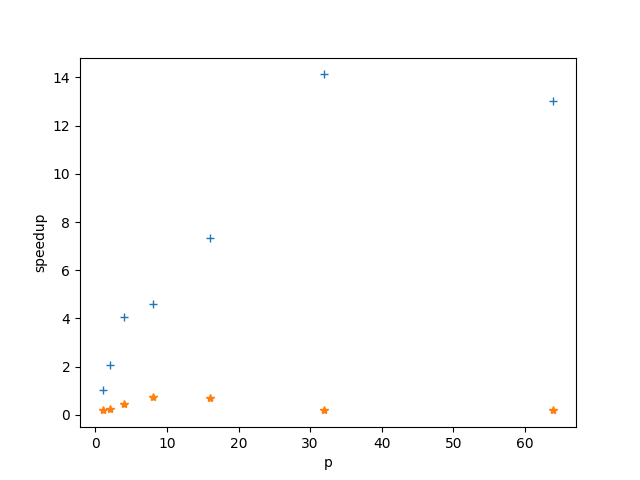
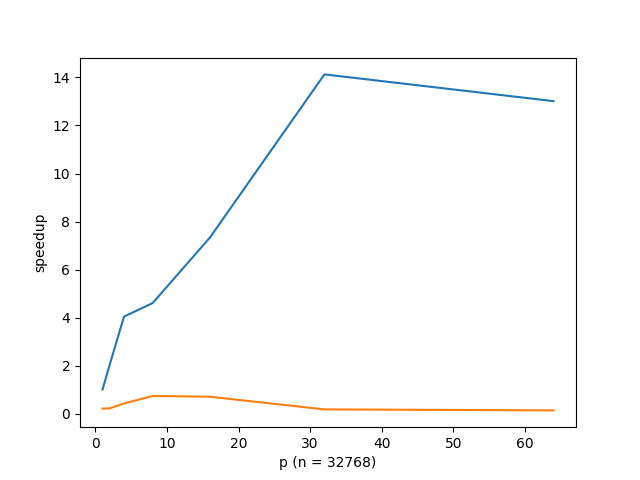
Improve prog3.5

diff --git a/plot_3.5.py b/plot_3.5.py
@@ -2,14 +2,26 @@ import numpy as np
 import matplotlib
 import matplotlib.pyplot as plt
 
-scatter_32768 = np.array([2.564583, 2.754509, 1.472941, 0.803871, 0.904196, 3.762699, 3.751775])
+scatter_32768 = np.array([2.564583, 2.754509, 1.472941, 0.803871, 0.904196, 3.762699, 4.861116])
 calc_32768 = np.array([0.705935, 0.349013, 0.176863, 0.155272, 0.097594, 0.050689, 0.055023])
 p = np.array([1, 2, 4, 8, 16, 32, 64])
 serial_32768 = 0.715940
-plt.plot(p, serial_32768 / calc_32768, "+")
-plt.plot(p, serial_32768 / (scatter_32768 + calc_32768), "*")
-plt.xlabel('p')
+plt.plot(p, serial_32768 / calc_32768)
+plt.plot(p, serial_32768 / (scatter_32768 + calc_32768))
+plt.xlabel('p (n = 32768)')
 plt.ylabel('speedup')
 plt.savefig("speedup_32768.png")
 plt.cla()
+
+scatter_64 = np.array([0.005673, 0.027237, 0.344984, 1.238004, 4.861116])
+calc_64 = np.array([0.000421, 0.000858, 0.003288, 0.008784, 0.029271])
+n = np.array([512, 2048, 8192, 16384, 32768])
+serial_64 = np.array([0.000166, 0.002786, 0.036893, 0.280732, 0.715940])
+plt.plot(n, serial_64 / calc_64)
+plt.plot(n, serial_64 / (scatter_64 + calc_64))
+plt.xlabel('n (p = 64)')
+plt.ylabel('speedup')
+plt.savefig("speedup_64.png")
+plt.cla()
+
 

diff --git a/prog3.5_6.md b/prog3.5_6.md
@@ -71,10 +71,16 @@ double time_after_calc = MPI_Wtime();
 | 8    | 0.001911/0.000159 | 0.008007/0.000921 | 0.102332/0.008524 | 0.259549/0.033296 | 0.803871/0.155272 |
 | 16   | 0.002041/0.000141 | 0.009946/0.000401 | 0.098155/0.007355 | 0.391268/0.024654 | 0.904196/0.097594 |
 | 32   | 0.002674/0.000499 | 0.019681/0.000507 | 0.271671/0.004532 | 1.006703/0.014355 | 3.762699/0.050689 |
-| 64   | 0.005673/0.000421 | 0.027237/0.000858 | 0.344984/0.003288 | 1.238004/0.008784 | 3.751775/0.055023 |
+| 64   | 0.005673/0.000421 | 0.027237/0.000858 | 0.344984/0.003288 | 1.238004/0.008784 | 4.861116/0.029271 |
 
 可以看到，时间基本都花在生成数据和通信上，而实际计算时间并不长。对于同样的数据大小，计算时间与并行度大体上呈负相关的趋势，在数据量大的时候较为明显，数据量小的时候并不显著。在并行度较大的时候，一台机器不足以提供足够的并行度，需要不同机器之间互相通信，这部分的开销并不小。
 
 ![](speedup_32768.png)
 
-对于 `n=32768` 的情况进行了绘制。横坐标表示 `p` ，纵坐标表示加速比，加号表示仅计算时间，星号表示数据分发时间与计算时间求和。可以看到，加速比随 p 在一定范围内基本是正比，但加速比会到达一个上限。由于数据量比较大，并且 p 大时涉及到集群内不同机器之间的通信，导致加速比反而在下降。这个问题在数据量更大的时候应该会有所改善，但是在实践过程中发现，如果将 n 提高到 65536，会导致 MPI_Scatterv 出错，因而无法继续测试。
+上面这附图是 `n=32768` 的情况。横坐标表示 `p` ，纵坐标表示加速比，蓝色表示仅计算时间，橙色表示数据分发时间与计算时间求和。可以看到，加速比随 p 在一定范围内基本是正比，但加速比会到达一个上限。由于数据量比较大，并且 p 大时涉及到集群内不同机器之间的通信，导致加速比反而在下降。这个问题在数据量更大的时候应该会有所改善，但是在实践过程中发现，如果将 n 提高到 65536，会导致 MPI_Scatterv 出错，因而无法继续测试。
+
+
+
+![](speedup_64.png)
+
+上面这附图是 `p=64` 的情况。横坐标表示 `n` ，纵坐标表示加速比，蓝色表示仅计算时间，橙色表示数据分发时间与计算时间求和。这个时候，由于数据分发时间都远大于计算时间，所以橙色的值都很小。而蓝色表示的加速比，在数据量大的时候，并行度提高对加速比的影响比较显著，并且也出现了和之前类似的瓶颈的情况。
